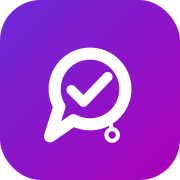
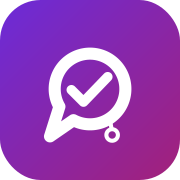
Marca: sale el magenta, el vino #A32179 queda como color principal
Claude-Session: https://claude.ai/code/session_01NuavkEDzCewLwtJDa335eT

diff --git a/index.html b/index.html
@@ -51,13 +51,13 @@
   --menta-2:#E8F1F9;
   --salvia:#B1D0EA;
   --verde:#1A4E6D;
-  --rosa:#ECD5ED;
-  --marca:#AC00B8;
-  --marca-claro:#D176D7;
-  --marca-200:#F0CEF2;
-  --marca-800:#610068;
+  --rosa:#F5D9E8;
+  --marca:#A32179;
+  --marca-claro:#E07AB8;
+  --marca-200:#FFC8E6;
+  --marca-800:#6A004C;
   --violeta:#6B2BD9;
-  --degradado:linear-gradient(135deg,#6B2BD9,#AC00B8);
+  --degradado:linear-gradient(135deg,#6B2BD9,#A32179);
   --wa:#B1DF67; /* lima: solo botones de acción y resaltes */
   --wa-hover:#A0D14B;
   --linea:#CFDFEC;
@@ -104,7 +104,7 @@ p{margin:0}
 .barra{position:sticky;top:0;z-index:20;background:rgba(0,37,57,.9);backdrop-filter:saturate(1.4) blur(10px);border-bottom:1px solid rgba(255,255,255,.08)}
 .barra .envoltura{display:flex;align-items:center;justify-content:space-between;height:68px;gap:24px}
 .logo{display:flex;align-items:center;gap:10px;text-decoration:none;font-weight:500;font-size:1.3rem;color:#fff;letter-spacing:-.01em}
-.logo b{font-weight:600;background:linear-gradient(135deg,#B58AF5,#E07AE6);-webkit-background-clip:text;background-clip:text;color:transparent}
+.logo b{font-weight:600;background:linear-gradient(135deg,#B58AF5,#E07AB8);-webkit-background-clip:text;background-clip:text;color:transparent}
 .menu{display:flex;gap:28px;list-style:none;margin:0;padding:0}
 .menu a{text-decoration:none;font-size:.98rem;color:#C6D6E4}
 .menu a:hover{color:#fff}
@@ -117,7 +117,7 @@ p{margin:0}
 .oscuro .antetitulo{color:var(--marca-claro)}
 .hero{padding:80px 0 72px;overflow:hidden;
   background:
-    radial-gradient(620px 440px at 80% 42%, rgba(172,0,184,.42), transparent 70%),
+    radial-gradient(620px 440px at 80% 42%, rgba(163,33,121,.42), transparent 70%),
     radial-gradient(500px 300px at 10% 110%, rgba(107,43,217,.30), transparent 70%),
     linear-gradient(rgba(255,255,255,.04) 1px, transparent 1px) 0 0/44px 44px,
     linear-gradient(90deg, rgba(255,255,255,.04) 1px, transparent 1px) 0 0/44px 44px,
@@ -137,7 +137,7 @@ p{margin:0}
 .sellos svg{width:18px;height:18px;color:var(--salvia);flex:none}
 
 /* Teléfono */
-.telefono{justify-self:center;width:min(100%,370px);background:var(--tinta-2);border-radius:36px;padding:12px;box-shadow:0 0 0 1px rgba(209,118,215,.40),0 30px 80px -20px rgba(172,0,184,.55);transform:rotate(1.5deg)}
+.telefono{justify-self:center;width:min(100%,370px);background:var(--tinta-2);border-radius:36px;padding:12px;box-shadow:0 0 0 1px rgba(224,122,184,.40),0 30px 80px -20px rgba(163,33,121,.55);transform:rotate(1.5deg)}
 .pantalla{background:var(--papel);border-radius:26px;overflow:hidden;display:flex;flex-direction:column;height:640px}
 .chat-cabeza{background:var(--tinta);color:#fff;display:flex;align-items:center;gap:12px;padding:14px 16px}
 .chat-cabeza .isotipo{width:40px;height:40px;border-radius:50%;background:#fff;padding:5px}
@@ -194,12 +194,12 @@ p{margin:0}
 .ventana-barra span{margin-left:8px}
 .panel{padding:22px 22px 0}
 .panel[hidden]{display:none}
-.tarjeta-osc{background:#0B3048;border:1px solid rgba(209,118,215,.18);border-radius:14px;padding:16px}
+.tarjeta-osc{background:#0B3048;border:1px solid rgba(224,122,184,.18);border-radius:14px;padding:16px}
 .fila{display:flex;justify-content:space-between;align-items:center;gap:12px}
 .chip{display:inline-flex;align-items:center;gap:6px;font-size:.8rem;font-weight:500;padding:5px 10px;border-radius:999px;background:rgba(255,255,255,.08);color:#DCE7F1}
 .chip.ok{background:rgba(74,222,128,.14);color:#86EFAC}
 .chip.alerta{background:rgba(251,191,36,.16);color:#FCD34D}
-.chip.marca{background:rgba(209,118,215,.2);color:#F0CEF2}
+.chip.marca{background:rgba(224,122,184,.2);color:#FFC8E6}
 .cifra{font-size:1.75rem;font-weight:600;color:#fff;letter-spacing:-.01em}
 .tenue{color:#9FB4C6;font-size:.88rem}
 /* caja */
@@ -218,7 +218,7 @@ p{margin:0}
 .barra-nivel i.bajo{background:#FCD34D}
 /* gráfica */
 .grafica{display:flex;align-items:flex-end;gap:10px;height:150px;padding-top:10px}
-.grafica div{flex:1;border-radius:6px 6px 0 0;background:rgba(209,118,215,.35);position:relative}
+.grafica div{flex:1;border-radius:6px 6px 0 0;background:rgba(224,122,184,.35);position:relative}
 .grafica div.hoy{background:var(--degradado)}
 .grafica-dias{display:flex;gap:10px;margin-top:6px}
 .grafica-dias span{flex:1;text-align:center;font-size:.75rem;color:#9FB4C6}
@@ -253,7 +253,7 @@ p{margin:0}
 /* ================= NadIA ================= */
 .nadia{background:var(--tinta)}
 .preguntas-nadia{margin-top:44px;display:flex;flex-wrap:wrap;gap:12px;list-style:none;padding:0;max-width:900px}
-.preguntas-nadia li{background:rgba(209,118,215,.12);border:1px solid rgba(209,118,215,.35);border-radius:999px;padding:12px 20px;font-size:1.05rem;color:#fff}
+.preguntas-nadia li{background:rgba(224,122,184,.12);border:1px solid rgba(224,122,184,.35);border-radius:999px;padding:12px 20px;font-size:1.05rem;color:#fff}
 .nadia-nota{margin-top:36px;max-width:60ch;color:#C6D6E4}
 
 /* ================= Caso real ================= */
@@ -334,16 +334,16 @@ footer a{color:#fff}
 .ob-anillo2{transform-origin:300px 300px;animation:ob-girar 90s linear infinite reverse}
 .ob-radio{animation:ob-fluir 1.2s linear infinite}
 .ob-nombre{font:600 22px var(--f);fill:#fff;letter-spacing:-.01em}
-.ob-ia{fill:#E07AE6}
+.ob-ia{fill:#E07AB8}
 .ob-pulso{transform-origin:300px 300px;animation:ob-pulso 1.8s ease-out infinite;animation-delay:0.9s;opacity:0}
 .ob-pulso2{animation-delay:1.25s}
-.ob-mod-fondo{fill:#0B3048;stroke:rgba(209,118,215,.38);stroke-width:1.5;transition:fill .3s}
+.ob-mod-fondo{fill:#0B3048;stroke:rgba(224,122,184,.38);stroke-width:1.5;transition:fill .3s}
 .ob-mod-icono{color:#DCE7F1}
 .ob-mod-nombre{font:500 17px var(--f);fill:#C6D6E4}
 .ob-mod .ob-mod-fondo{animation:ob-fondo 14.4s infinite;animation-delay:inherit}
 .ob-mod .ob-mod-icono{animation:ob-icono 14.4s infinite;animation-delay:inherit}
 .ob-mod .ob-mod-nombre{animation:ob-texto 14.4s infinite;animation-delay:inherit}
-@keyframes ob-fondo{0%{fill:#1A4E6D;stroke:#E07AE6;stroke-width:3}12.50%{fill:#1A4E6D;stroke:#E07AE6;stroke-width:3}14.50%,100%{fill:#0B3048;stroke:rgba(209,118,215,.38);stroke-width:1.5}}
+@keyframes ob-fondo{0%{fill:#1A4E6D;stroke:#E07AB8;stroke-width:3}12.50%{fill:#1A4E6D;stroke:#E07AB8;stroke-width:3}14.50%,100%{fill:#0B3048;stroke:rgba(224,122,184,.38);stroke-width:1.5}}
 @keyframes ob-icono{0%,12.50%{color:#fff}14.50%,100%{color:#DCE7F1}}
 @keyframes ob-texto{0%,12.50%{fill:#fff}14.50%,100%{fill:#C6D6E4}}
 @keyframes ob-girar{to{transform:rotate(360deg)}}
@@ -407,7 +407,7 @@ footer a{color:#fff}
 
 <svg width="0" height="0" style="position:absolute" aria-hidden="true">
   <defs>
-    <linearGradient id="lgA" x1="0" y1="0" x2="1" y2="1"><stop offset="0" stop-color="#6B2BD9"/><stop offset="1" stop-color="#AC00B8"/></linearGradient>
+    <linearGradient id="lgA" x1="0" y1="0" x2="1" y2="1"><stop offset="0" stop-color="#6B2BD9"/><stop offset="1" stop-color="#A32179"/></linearGradient>
     <symbol id="isotipo" viewBox="0 0 120 120"><path d="M 42.2 88.6 A 38 38 0 1 0 27.1 74.0 L 17 106 Z" fill="none" stroke="url(#lgA)" stroke-width="13" stroke-linejoin="round" stroke-linecap="round"/><polyline points="40,56 53,69 79,42" fill="none" stroke="#B1D0EA" stroke-width="10.5" stroke-linecap="round" stroke-linejoin="round"/><line x1="82.2" y1="92.5" x2="83.2" y2="98.0" stroke="url(#lgA)" stroke-width="4.4" stroke-linecap="round"/><circle cx="83.8" cy="104.5" r="6.2" fill="none" stroke="url(#lgA)" stroke-width="4.4"/></symbol>
     <symbol id="isotipo-claro" viewBox="0 0 120 120"><path d="M 42.2 88.6 A 38 38 0 1 0 27.1 74.0 L 17 106 Z" fill="none" stroke="url(#lgA)" stroke-width="13" stroke-linejoin="round" stroke-linecap="round"/><polyline points="40,56 53,69 79,42" fill="none" stroke="#1A4E6D" stroke-width="10.5" stroke-linecap="round" stroke-linejoin="round"/><line x1="82.2" y1="92.5" x2="83.2" y2="98.0" stroke="url(#lgA)" stroke-width="4.4" stroke-linecap="round"/><circle cx="83.8" cy="104.5" r="6.2" fill="none" stroke="url(#lgA)" stroke-width="4.4"/></symbol>
     <symbol id="wa" viewBox="0 0 24 24"><path fill="currentColor" d="M12 2a10 10 0 0 0-8.6 15.1L2 22l5-1.3A10 10 0 1 0 12 2Zm0 18.2a8.2 8.2 0 0 1-4.2-1.2l-.3-.2-3 .8.8-2.9-.2-.3A8.2 8.2 0 1 1 12 20.2Zm4.5-6.1c-.2-.1-1.5-.7-1.7-.8s-.4-.1-.6.1-.7.8-.8 1-.3.2-.5 0a6.7 6.7 0 0 1-3.3-2.9c-.3-.4.3-.4.7-1.3a.5.5 0 0 0 0-.5l-.8-1.8c-.2-.5-.4-.4-.6-.4h-.5a1 1 0 0 0-.7.3 3 3 0 0 0-.9 2.2 5.1 5.1 0 0 0 1.1 2.7 11.6 11.6 0 0 0 4.4 3.9c1.6.7 2.3.8 3.1.6a2.7 2.7 0 0 0 1.8-1.2 2.2 2.2 0 0 0 .1-1.3c0-.1-.2-.2-.4-.3Z"/></symbol>
@@ -456,8 +456,8 @@ footer a{color:#fff}
       <title id="orbita-t">Todo tu negocio conectado con NadIA</title>
       <desc id="orbita-d">NadIA en el centro conecta mostrador, tienda en línea, pedidos, domicilios, inventario, factura DIAN, gastos y finanzas.</desc>
       <defs>
-        <radialGradient id="ob-halo" cx="50%" cy="50%" r="50%"><stop offset="0" stop-color="#AC00B8" stop-opacity=".55"/><stop offset="1" stop-color="#AC00B8" stop-opacity="0"/></radialGradient>
-        <linearGradient id="ob-deg" x1="0" y1="0" x2="1" y2="1"><stop offset="0" stop-color="#6B2BD9"/><stop offset="1" stop-color="#AC00B8"/></linearGradient>
+        <radialGradient id="ob-halo" cx="50%" cy="50%" r="50%"><stop offset="0" stop-color="#A32179" stop-opacity=".55"/><stop offset="1" stop-color="#A32179" stop-opacity="0"/></radialGradient>
+        <linearGradient id="ob-deg" x1="0" y1="0" x2="1" y2="1"><stop offset="0" stop-color="#6B2BD9"/><stop offset="1" stop-color="#A32179"/></linearGradient>
         <filter id="ob-brillo" x="-60%" y="-60%" width="220%" height="220%"><feGaussianBlur stdDeviation="6" result="b"/><feMerge><feMergeNode in="b"/><feMergeNode in="SourceGraphic"/></feMerge></filter>
         <symbol id="ob-caja" viewBox="0 0 24 24"><g fill="none" stroke="currentColor" stroke-width="1.8" stroke-linecap="round" stroke-linejoin="round"><rect x="3" y="4" width="18" height="12" rx="2"/><path d="M8 20h8M12 16v4"/></g></symbol>
         <symbol id="ob-tienda" viewBox="0 0 24 24"><g fill="none" stroke="currentColor" stroke-width="1.8" stroke-linecap="round" stroke-linejoin="round"><path d="M3 9h18l-1.5 11h-15Z"/><path d="M8 9V7a4 4 0 0 1 8 0v2"/></g></symbol>
@@ -470,38 +470,38 @@ footer a{color:#fff}
       </defs>
       <circle cx="300" cy="300" r="190" fill="url(#ob-halo)" opacity=".55"/>
       <circle class="ob-anillo" cx="300" cy="300" r="205" fill="none" stroke="#B1D0EA" stroke-opacity=".35" stroke-width="1.5" stroke-dasharray="2 10"/>
-      <circle class="ob-anillo2" cx="300" cy="300" r="143" fill="none" stroke="#D176D7" stroke-opacity=".18" stroke-width="1" stroke-dasharray="1 7"/>
-      <path id="ob-in-0" class="ob-radio" d="M300 137 L300 220" fill="none" stroke="#D176D7" stroke-opacity=".5" stroke-width="1.6" stroke-dasharray="4 6"/>
+      <circle class="ob-anillo2" cx="300" cy="300" r="143" fill="none" stroke="#E07AB8" stroke-opacity=".18" stroke-width="1" stroke-dasharray="1 7"/>
+      <path id="ob-in-0" class="ob-radio" d="M300 137 L300 220" fill="none" stroke="#E07AB8" stroke-opacity=".5" stroke-width="1.6" stroke-dasharray="4 6"/>
       <path id="ob-out-0" d="M356.6 243.4 L415.3 184.7" fill="none" stroke="none"/>
-      <path id="ob-in-1" class="ob-radio" d="M415.3 184.7 L356.6 243.4" fill="none" stroke="#D176D7" stroke-opacity=".5" stroke-width="1.6" stroke-dasharray="4 6"/>
+      <path id="ob-in-1" class="ob-radio" d="M415.3 184.7 L356.6 243.4" fill="none" stroke="#E07AB8" stroke-opacity=".5" stroke-width="1.6" stroke-dasharray="4 6"/>
       <path id="ob-out-1" d="M380 300 L463 300" fill="none" stroke="none"/>
-      <path id="ob-in-2" class="ob-radio" d="M463 300 L380 300" fill="none" stroke="#D176D7" stroke-opacity=".5" stroke-width="1.6" stroke-dasharray="4 6"/>
+      <path id="ob-in-2" class="ob-radio" d="M463 300 L380 300" fill="none" stroke="#E07AB8" stroke-opacity=".5" stroke-width="1.6" stroke-dasharray="4 6"/>
       <path id="ob-out-2" d="M356.6 356.6 L415.3 415.3" fill="none" stroke="none"/>
-      <path id="ob-in-3" class="ob-radio" d="M415.3 415.3 L356.6 356.6" fill="none" stroke="#D176D7" stroke-opacity=".5" stroke-width="1.6" stroke-dasharray="4 6"/>
+      <path id="ob-in-3" class="ob-radio" d="M415.3 415.3 L356.6 356.6" fill="none" stroke="#E07AB8" stroke-opacity=".5" stroke-width="1.6" stroke-dasharray="4 6"/>
       <path id="ob-out-3" d="M300 380 L300 463" fill="none" stroke="none"/>
-      <path id="ob-in-4" class="ob-radio" d="M300 463 L300 380" fill="none" stroke="#D176D7" stroke-opacity=".5" stroke-width="1.6" stroke-dasharray="4 6"/>
+      <path id="ob-in-4" class="ob-radio" d="M300 463 L300 380" fill="none" stroke="#E07AB8" stroke-opacity=".5" stroke-width="1.6" stroke-dasharray="4 6"/>
       <path id="ob-out-4" d="M243.4 356.6 L184.7 415.3" fill="none" stroke="none"/>
-      <path id="ob-in-5" class="ob-radio" d="M184.7 415.3 L243.4 356.6" fill="none" stroke="#D176D7" stroke-opacity=".5" stroke-width="1.6" stroke-dasharray="4 6"/>
+      <path id="ob-in-5" class="ob-radio" d="M184.7 415.3 L243.4 356.6" fill="none" stroke="#E07AB8" stroke-opacity=".5" stroke-width="1.6" stroke-dasharray="4 6"/>
       <path id="ob-out-5" d="M220 300 L137 300" fill="none" stroke="none"/>
-      <path id="ob-in-6" class="ob-radio" d="M137 300 L220 300" fill="none" stroke="#D176D7" stroke-opacity=".5" stroke-width="1.6" stroke-dasharray="4 6"/>
+      <path id="ob-in-6" class="ob-radio" d="M137 300 L220 300" fill="none" stroke="#E07AB8" stroke-opacity=".5" stroke-width="1.6" stroke-dasharray="4 6"/>
       <path id="ob-out-6" d="M243.4 243.4 L184.7 184.7" fill="none" stroke="none"/>
-      <path id="ob-in-7" class="ob-radio" d="M184.7 184.7 L243.4 243.4" fill="none" stroke="#D176D7" stroke-opacity=".5" stroke-width="1.6" stroke-dasharray="4 6"/>
+      <path id="ob-in-7" class="ob-radio" d="M184.7 184.7 L243.4 243.4" fill="none" stroke="#E07AB8" stroke-opacity=".5" stroke-width="1.6" stroke-dasharray="4 6"/>
       <path id="ob-out-7" d="M300 220 L300 137" fill="none" stroke="none"/>
-      <circle class="ob-paquete" r="5" fill="#F0CEF2" filter="url(#ob-brillo)" opacity="0"><animateMotion dur="14.4s" begin="0s" repeatCount="indefinite" keyPoints="0;1;1" keyTimes="0;0.0625;1" calcMode="linear"><mpath href="#ob-in-0"/></animateMotion><animate attributeName="opacity" dur="14.4s" begin="0s" repeatCount="indefinite" values="1;1;0;0" keyTimes="0;0.0563;0.0625;1"/></circle>
+      <circle class="ob-paquete" r="5" fill="#FFC8E6" filter="url(#ob-brillo)" opacity="0"><animateMotion dur="14.4s" begin="0s" repeatCount="indefinite" keyPoints="0;1;1" keyTimes="0;0.0625;1" calcMode="linear"><mpath href="#ob-in-0"/></animateMotion><animate attributeName="opacity" dur="14.4s" begin="0s" repeatCount="indefinite" values="1;1;0;0" keyTimes="0;0.0563;0.0625;1"/></circle>
       <circle class="ob-paquete" r="5" fill="#B1D0EA" filter="url(#ob-brillo)" opacity="0"><animateMotion dur="14.4s" begin="0.9s" repeatCount="indefinite" keyPoints="0;1;1" keyTimes="0;0.0625;1" calcMode="linear"><mpath href="#ob-out-0"/></animateMotion><animate attributeName="opacity" dur="14.4s" begin="0.9s" repeatCount="indefinite" values="1;1;0;0" keyTimes="0;0.0563;0.0625;1"/></circle>
-      <circle class="ob-paquete" r="5" fill="#F0CEF2" filter="url(#ob-brillo)" opacity="0"><animateMotion dur="14.4s" begin="1.8s" repeatCount="indefinite" keyPoints="0;1;1" keyTimes="0;0.0625;1" calcMode="linear"><mpath href="#ob-in-1"/></animateMotion><animate attributeName="opacity" dur="14.4s" begin="1.8s" repeatCount="indefinite" values="1;1;0;0" keyTimes="0;0.0563;0.0625;1"/></circle>
+      <circle class="ob-paquete" r="5" fill="#FFC8E6" filter="url(#ob-brillo)" opacity="0"><animateMotion dur="14.4s" begin="1.8s" repeatCount="indefinite" keyPoints="0;1;1" keyTimes="0;0.0625;1" calcMode="linear"><mpath href="#ob-in-1"/></animateMotion><animate attributeName="opacity" dur="14.4s" begin="1.8s" repeatCount="indefinite" values="1;1;0;0" keyTimes="0;0.0563;0.0625;1"/></circle>
       <circle class="ob-paquete" r="5" fill="#B1D0EA" filter="url(#ob-brillo)" opacity="0"><animateMotion dur="14.4s" begin="2.7s" repeatCount="indefinite" keyPoints="0;1;1" keyTimes="0;0.0625;1" calcMode="linear"><mpath href="#ob-out-1"/></animateMotion><animate attributeName="opacity" dur="14.4s" begin="2.7s" repeatCount="indefinite" values="1;1;0;0" keyTimes="0;0.0563;0.0625;1"/></circle>
-      <circle class="ob-paquete" r="5" fill="#F0CEF2" filter="url(#ob-brillo)" opacity="0"><animateMotion dur="14.4s" begin="3.6s" repeatCount="indefinite" keyPoints="0;1;1" keyTimes="0;0.0625;1" calcMode="linear"><mpath href="#ob-in-2"/></animateMotion><animate attributeName="opacity" dur="14.4s" begin="3.6s" repeatCount="indefinite" values="1;1;0;0" keyTimes="0;0.0563;0.0625;1"/></circle>
+      <circle class="ob-paquete" r="5" fill="#FFC8E6" filter="url(#ob-brillo)" opacity="0"><animateMotion dur="14.4s" begin="3.6s" repeatCount="indefinite" keyPoints="0;1;1" keyTimes="0;0.0625;1" calcMode="linear"><mpath href="#ob-in-2"/></animateMotion><animate attributeName="opacity" dur="14.4s" begin="3.6s" repeatCount="indefinite" values="1;1;0;0" keyTimes="0;0.0563;0.0625;1"/></circle>
       <circle class="ob-paquete" r="5" fill="#B1D0EA" filter="url(#ob-brillo)" opacity="0"><animateMotion dur="14.4s" begin="4.5s" repeatCount="indefinite" keyPoints="0;1;1" keyTimes="0;0.0625;1" calcMode="linear"><mpath href="#ob-out-2"/></animateMotion><animate attributeName="opacity" dur="14.4s" begin="4.5s" repeatCount="indefinite" values="1;1;0;0" keyTimes="0;0.0563;0.0625;1"/></circle>
-      <circle class="ob-paquete" r="5" fill="#F0CEF2" filter="url(#ob-brillo)" opacity="0"><animateMotion dur="14.4s" begin="5.4s" repeatCount="indefinite" keyPoints="0;1;1" keyTimes="0;0.0625;1" calcMode="linear"><mpath href="#ob-in-3"/></animateMotion><animate attributeName="opacity" dur="14.4s" begin="5.4s" repeatCount="indefinite" values="1;1;0;0" keyTimes="0;0.0563;0.0625;1"/></circle>
+      <circle class="ob-paquete" r="5" fill="#FFC8E6" filter="url(#ob-brillo)" opacity="0"><animateMotion dur="14.4s" begin="5.4s" repeatCount="indefinite" keyPoints="0;1;1" keyTimes="0;0.0625;1" calcMode="linear"><mpath href="#ob-in-3"/></animateMotion><animate attributeName="opacity" dur="14.4s" begin="5.4s" repeatCount="indefinite" values="1;1;0;0" keyTimes="0;0.0563;0.0625;1"/></circle>
       <circle class="ob-paquete" r="5" fill="#B1D0EA" filter="url(#ob-brillo)" opacity="0"><animateMotion dur="14.4s" begin="6.3s" repeatCount="indefinite" keyPoints="0;1;1" keyTimes="0;0.0625;1" calcMode="linear"><mpath href="#ob-out-3"/></animateMotion><animate attributeName="opacity" dur="14.4s" begin="6.3s" repeatCount="indefinite" values="1;1;0;0" keyTimes="0;0.0563;0.0625;1"/></circle>
-      <circle class="ob-paquete" r="5" fill="#F0CEF2" filter="url(#ob-brillo)" opacity="0"><animateMotion dur="14.4s" begin="7.2s" repeatCount="indefinite" keyPoints="0;1;1" keyTimes="0;0.0625;1" calcMode="linear"><mpath href="#ob-in-4"/></animateMotion><animate attributeName="opacity" dur="14.4s" begin="7.2s" repeatCount="indefinite" values="1;1;0;0" keyTimes="0;0.0563;0.0625;1"/></circle>
+      <circle class="ob-paquete" r="5" fill="#FFC8E6" filter="url(#ob-brillo)" opacity="0"><animateMotion dur="14.4s" begin="7.2s" repeatCount="indefinite" keyPoints="0;1;1" keyTimes="0;0.0625;1" calcMode="linear"><mpath href="#ob-in-4"/></animateMotion><animate attributeName="opacity" dur="14.4s" begin="7.2s" repeatCount="indefinite" values="1;1;0;0" keyTimes="0;0.0563;0.0625;1"/></circle>
       <circle class="ob-paquete" r="5" fill="#B1D0EA" filter="url(#ob-brillo)" opacity="0"><animateMotion dur="14.4s" begin="8.1s" repeatCount="indefinite" keyPoints="0;1;1" keyTimes="0;0.0625;1" calcMode="linear"><mpath href="#ob-out-4"/></animateMotion><animate attributeName="opacity" dur="14.4s" begin="8.1s" repeatCount="indefinite" values="1;1;0;0" keyTimes="0;0.0563;0.0625;1"/></circle>
-      <circle class="ob-paquete" r="5" fill="#F0CEF2" filter="url(#ob-brillo)" opacity="0"><animateMotion dur="14.4s" begin="9s" repeatCount="indefinite" keyPoints="0;1;1" keyTimes="0;0.0625;1" calcMode="linear"><mpath href="#ob-in-5"/></animateMotion><animate attributeName="opacity" dur="14.4s" begin="9s" repeatCount="indefinite" values="1;1;0;0" keyTimes="0;0.0563;0.0625;1"/></circle>
+      <circle class="ob-paquete" r="5" fill="#FFC8E6" filter="url(#ob-brillo)" opacity="0"><animateMotion dur="14.4s" begin="9s" repeatCount="indefinite" keyPoints="0;1;1" keyTimes="0;0.0625;1" calcMode="linear"><mpath href="#ob-in-5"/></animateMotion><animate attributeName="opacity" dur="14.4s" begin="9s" repeatCount="indefinite" values="1;1;0;0" keyTimes="0;0.0563;0.0625;1"/></circle>
       <circle class="ob-paquete" r="5" fill="#B1D0EA" filter="url(#ob-brillo)" opacity="0"><animateMotion dur="14.4s" begin="9.9s" repeatCount="indefinite" keyPoints="0;1;1" keyTimes="0;0.0625;1" calcMode="linear"><mpath href="#ob-out-5"/></animateMotion><animate attributeName="opacity" dur="14.4s" begin="9.9s" repeatCount="indefinite" values="1;1;0;0" keyTimes="0;0.0563;0.0625;1"/></circle>
-      <circle class="ob-paquete" r="5" fill="#F0CEF2" filter="url(#ob-brillo)" opacity="0"><animateMotion dur="14.4s" begin="10.8s" repeatCount="indefinite" keyPoints="0;1;1" keyTimes="0;0.0625;1" calcMode="linear"><mpath href="#ob-in-6"/></animateMotion><animate attributeName="opacity" dur="14.4s" begin="10.8s" repeatCount="indefinite" values="1;1;0;0" keyTimes="0;0.0563;0.0625;1"/></circle>
+      <circle class="ob-paquete" r="5" fill="#FFC8E6" filter="url(#ob-brillo)" opacity="0"><animateMotion dur="14.4s" begin="10.8s" repeatCount="indefinite" keyPoints="0;1;1" keyTimes="0;0.0625;1" calcMode="linear"><mpath href="#ob-in-6"/></animateMotion><animate attributeName="opacity" dur="14.4s" begin="10.8s" repeatCount="indefinite" values="1;1;0;0" keyTimes="0;0.0563;0.0625;1"/></circle>
       <circle class="ob-paquete" r="5" fill="#B1D0EA" filter="url(#ob-brillo)" opacity="0"><animateMotion dur="14.4s" begin="11.7s" repeatCount="indefinite" keyPoints="0;1;1" keyTimes="0;0.0625;1" calcMode="linear"><mpath href="#ob-out-6"/></animateMotion><animate attributeName="opacity" dur="14.4s" begin="11.7s" repeatCount="indefinite" values="1;1;0;0" keyTimes="0;0.0563;0.0625;1"/></circle>
-      <circle class="ob-paquete" r="5" fill="#F0CEF2" filter="url(#ob-brillo)" opacity="0"><animateMotion dur="14.4s" begin="12.6s" repeatCount="indefinite" keyPoints="0;1;1" keyTimes="0;0.0625;1" calcMode="linear"><mpath href="#ob-in-7"/></animateMotion><animate attributeName="opacity" dur="14.4s" begin="12.6s" repeatCount="indefinite" values="1;1;0;0" keyTimes="0;0.0563;0.0625;1"/></circle>
+      <circle class="ob-paquete" r="5" fill="#FFC8E6" filter="url(#ob-brillo)" opacity="0"><animateMotion dur="14.4s" begin="12.6s" repeatCount="indefinite" keyPoints="0;1;1" keyTimes="0;0.0625;1" calcMode="linear"><mpath href="#ob-in-7"/></animateMotion><animate attributeName="opacity" dur="14.4s" begin="12.6s" repeatCount="indefinite" values="1;1;0;0" keyTimes="0;0.0563;0.0625;1"/></circle>
       <circle class="ob-paquete" r="5" fill="#B1D0EA" filter="url(#ob-brillo)" opacity="0"><animateMotion dur="14.4s" begin="13.5s" repeatCount="indefinite" keyPoints="0;1;1" keyTimes="0;0.0625;1" calcMode="linear"><mpath href="#ob-out-7"/></animateMotion><animate attributeName="opacity" dur="14.4s" begin="13.5s" repeatCount="indefinite" values="1;1;0;0" keyTimes="0;0.0563;0.0625;1"/></circle>
       <g class="ob-centro">
         <circle class="ob-pulso" cx="300" cy="300" r="78" fill="none" stroke="url(#ob-deg)" stroke-width="3"/>
@@ -1047,11 +1047,11 @@ footer a{color:#fff}
 </script>
 <!-- ===== Chat con NadIA (aparece solo cuando el servicio responde) ===== -->
 <style>
-.cn-boton{position:fixed;right:24px;bottom:24px;z-index:60;width:68px;height:68px;border-radius:50%;border:0;padding:0;cursor:pointer;background:transparent;box-shadow:0 12px 32px -8px rgba(172,0,184,.6);display:none;transition:transform .2s ease}
+.cn-boton{position:fixed;right:24px;bottom:24px;z-index:60;width:68px;height:68px;border-radius:50%;border:0;padding:0;cursor:pointer;background:transparent;box-shadow:0 12px 32px -8px rgba(163,33,121,.6);display:none;transition:transform .2s ease}
 .cn-boton.ver{display:block}
 .cn-boton:hover{transform:scale(1.06)}
 .cn-boton img{width:68px;height:68px;border-radius:50%;display:block}
-.cn-boton::after{content:"";position:absolute;inset:-6px;border-radius:50%;border:2px solid rgba(209,118,215,.55);animation:cn-pulso 2.4s ease-out infinite}
+.cn-boton::after{content:"";position:absolute;inset:-6px;border-radius:50%;border:2px solid rgba(224,122,184,.55);animation:cn-pulso 2.4s ease-out infinite}
 @keyframes cn-pulso{0%{transform:scale(.92);opacity:.9}100%{transform:scale(1.25);opacity:0}}
 .cn-nube{position:fixed;right:102px;bottom:40px;z-index:60;background:#fff;color:var(--tinta);font:500 .98rem/1.35 var(--f);padding:12px 16px;border-radius:16px 16px 4px 16px;box-shadow:0 12px 30px -10px rgba(0,37,57,.35);display:none;max-width:230px;cursor:pointer}
 .cn-nube.ver{display:block;animation:cn-entra .35s ease}
@@ -1072,7 +1072,7 @@ footer a{color:#fff}
 .cn-wa:hover{background:var(--wa-hover)}
 .cn-wa svg{width:20px;height:20px}
 .cn-chips{display:flex;flex-wrap:wrap;gap:8px;padding:0 14px 10px}
-.cn-chip{border:1px solid rgba(172,0,184,.35);background:#fff;color:var(--marca-800);font:500 .9rem/1.2 var(--f);padding:8px 12px;border-radius:999px;cursor:pointer}
+.cn-chip{border:1px solid rgba(163,33,121,.35);background:#fff;color:var(--marca-800);font:500 .9rem/1.2 var(--f);padding:8px 12px;border-radius:999px;cursor:pointer}
 .cn-chip:hover{background:var(--marca-200)}
 .cn-escribe{align-self:flex-start;background:#fff;border-radius:16px;padding:12px 14px;display:flex;gap:4px}
 .cn-escribe span{width:7px;height:7px;border-radius:50%;background:#9FB4C6;animation:salto 1s infinite}

diff --git a/politica-de-datos.html b/politica-de-datos.html
@@ -12,14 +12,14 @@
 <link rel="preconnect" href="https://fonts.gstatic.com" crossorigin>
 <link href="https://fonts.googleapis.com/css2?family=Outfit:wght@400;500;600&display=swap" rel="stylesheet">
 <style>
-:root{--tinta:#002539;--papel:#F4F8FC;--grafito:#152839;--gris:#526676;--menta:#E2EFFA;--marca:#AC00B8;--marca-claro:#D176D7;--linea:#CFDFEC;--wa:#B1DF67;--f:"Outfit",system-ui,-apple-system,"Segoe UI",sans-serif}
+:root{--tinta:#002539;--papel:#F4F8FC;--grafito:#152839;--gris:#526676;--menta:#E2EFFA;--marca:#A32179;--marca-claro:#E07AB8;--linea:#CFDFEC;--wa:#B1DF67;--f:"Outfit",system-ui,-apple-system,"Segoe UI",sans-serif}
 *{box-sizing:border-box}
 body{margin:0;background:var(--papel);color:var(--grafito);font-family:var(--f);font-size:1.0625rem;line-height:1.65;-webkit-font-smoothing:antialiased}
 a{color:var(--marca)}
 .barra{background:var(--tinta)}
 .barra div{max-width:820px;margin:0 auto;padding:0 24px;height:64px;display:flex;align-items:center;justify-content:space-between}
 .barra a{color:#fff;text-decoration:none;font-weight:500;font-size:1.15rem;display:flex;align-items:center;gap:10px}
-.barra a b{font-weight:600;color:#E07AE6}
+.barra a b{font-weight:600;color:#E07AB8}
 .barra small{color:#C6D6E4;font-size:.9rem}
 main{max-width:820px;margin:0 auto;padding:56px 24px 96px}
 h1{font-weight:600;font-size:clamp(1.9rem,4vw,2.6rem);line-height:1.12;letter-spacing:-.02em;color:var(--tinta);margin:0 0 12px}
